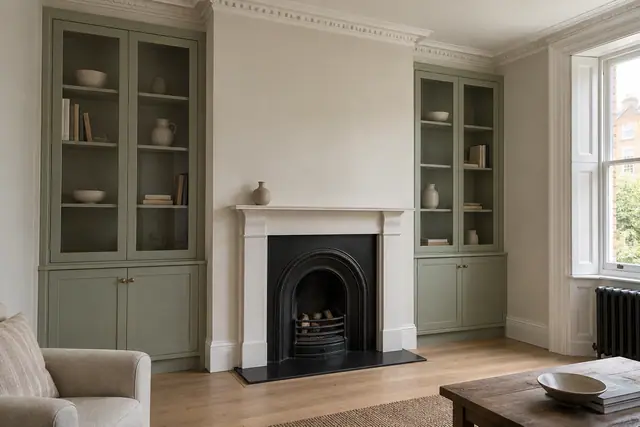
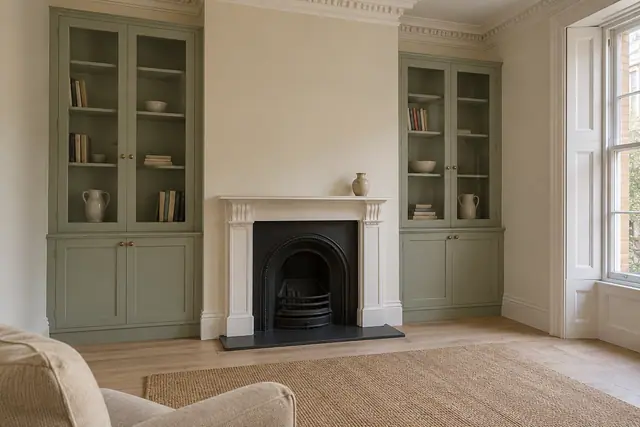
Islington: the AI alcove picture with a knob on every door and no coffee table (Denis, 19 Nov)
Denis on the review link: the glazed top doors had no handles ("i think we need to add handles"), and "remove the bowl from the table. right now it looks like its merged with the books". Made again (Figma node 45:11): a brass knob on every door, no coffee table, still no plants or lighting; picked over 45:10 (unexplained strip on the left wall) by an independent protocol check. The four glazed-door knobs were lumpy, so each was replaced with a copy of the base knob below it. astro build 36 pages; verify passed; npm test 88 pass.

diff --git a/src/data/areas.ts b/src/data/areas.ts
@@ -220,7 +220,11 @@ export const AREAS: Area[] = [
            (Figma node 41:8). Then, the same day, Denis: "remove the plants from inside the alcove units":
            made again with nothing but books, bowls and jugs on the shelves (node 43:9, picked over 43:8 by
            an independent check against the render protocol: 43:8 stopped short of the cornice and had slab
-           base doors). No retouch. Original PNGs in S&S ops deliverables/ai-renders-2026-11-14/. */
+           base doors). Then Denis asked for handles on the glazed doors and for the bowl on the coffee
+           table to go: made again (node 45:11: a knob on every door, no coffee table; picked over 45:10,
+           which had an unexplained strip on the left wall). The four glazed-door knobs came out lumpy,
+           so each was replaced with a copy of the base knob below it. Original PNGs in S&S ops
+           deliverables/ai-renders-2026-11-14/. */
         file: "/images/journal/islington-ai-glazed-alcove-units.webp",
         type: "Glazed alcove cupboards",
         ai: true,
